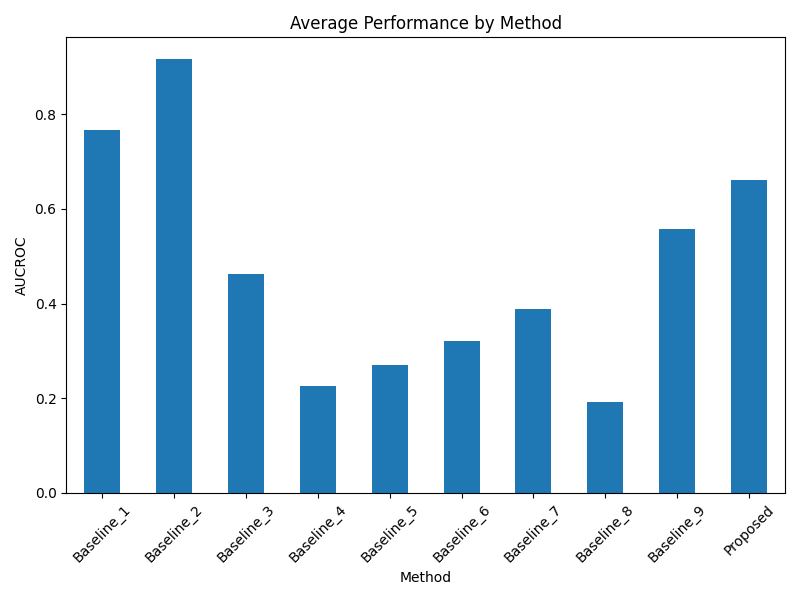
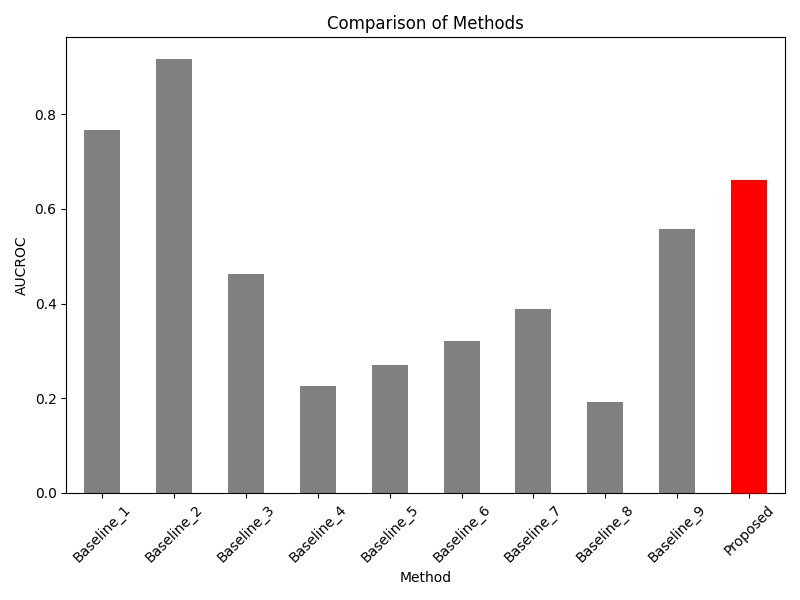
Highlight proposed method in visualization

diff --git a/workflow/viz_multi_method.py b/workflow/viz_multi_method.py
@@ -5,20 +5,24 @@ def visualize_multi_method():
 
     df = pd.read_csv("data/1d-multi-method-data.csv")
 
-    # Print column names (helps debugging)
-    print("Columns:", df.columns)
-
-    # Assume first column is method, second is performance metric
     method_col = df.columns[0]
     score_col = df.columns[1]
 
     method_avg = df.groupby(method_col)[score_col].mean()
 
+    # Set colors
+    colors = []
+    for method in method_avg.index:
+        if "proposed" in method.lower():
+            colors.append("red")     # highlight proposed method
+        else:
+            colors.append("gray")    # baseline methods
+
     plt.figure(figsize=(8,6))
 
-    method_avg.plot(kind="bar")
+    method_avg.plot(kind="bar", color=colors)
 
-    plt.title("Average Performance by Method")
+    plt.title("Comparison of Methods")
     plt.xlabel("Method")
     plt.ylabel(score_col)
 
